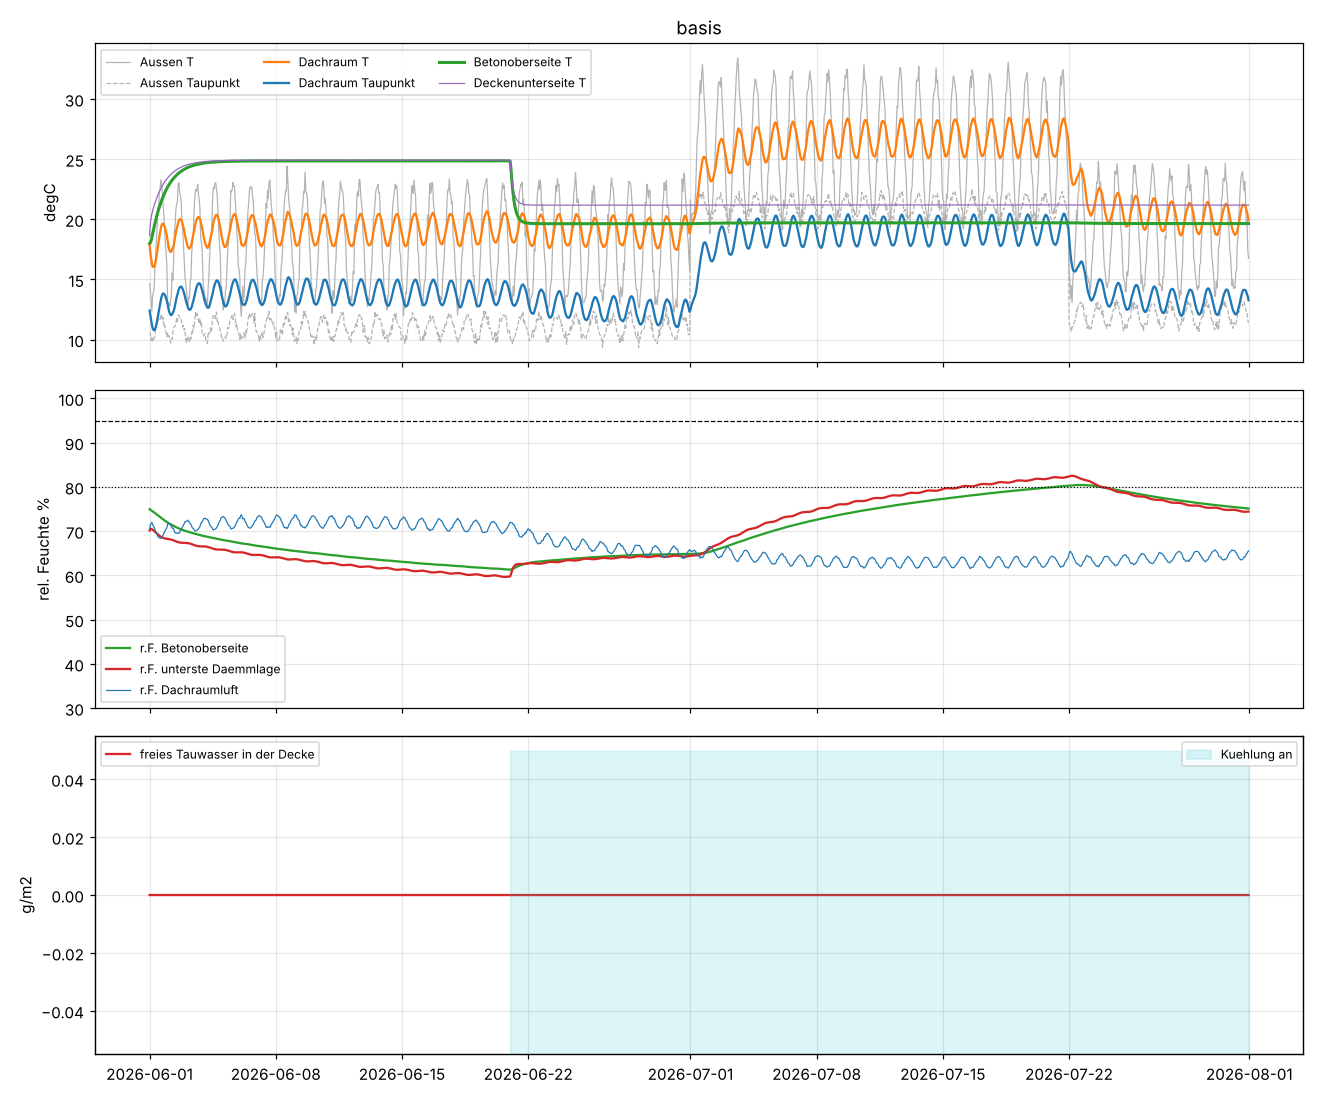
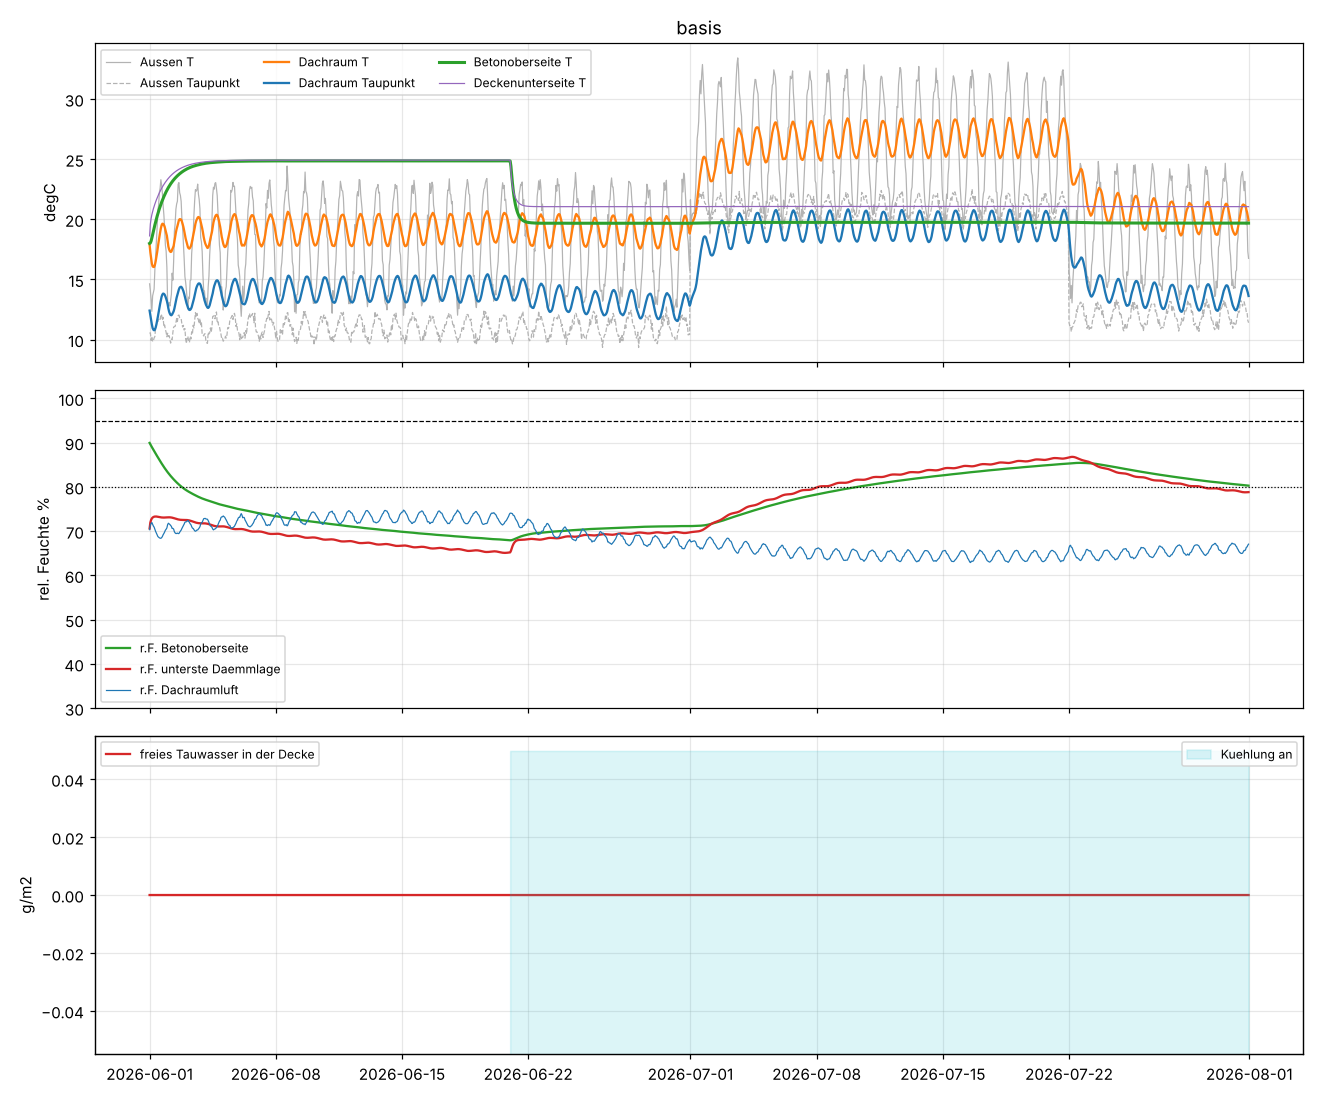
Use confirmed slab data: 20 cm concrete, pipes 8 cm from bottom, new build
Claude-Session: https://claude.ai/code/session_01JZBdeKqeZT9G5T1xVSHB6R

diff --git a/tools/attic-sim/README.md b/tools/attic-sim/README.md
@@ -71,38 +71,50 @@ Die Ergebnisse landen in `results/`: Zeitverläufe als PNG und CSV sowie
 
 ## Ergebnisse für den bestätigten Aufbau
 
-Bestätigt: keine Folie auf dem Beton, 30 cm geschüttete Zellulose, keine
-Raumentfeuchtung, Grundfläche 100 m², Dachneigung ca. 10°. Alle übrigen Werte
-sind weiterhin Annahmen. Die Zahlen sind deshalb **Größenordnungen**.
+Bestätigt sind:
 
-Gerechnet wurde mit künstlichem Wetter: 30 Tage zum Einschwingen, dann eine
-schwüle Hitzeperiode (Tag 26 ± 6 °C) mit dem Außentaupunkt aus der Tabelle,
-danach Abkühlung. Ausgewertet wurde ab Tag 30.
+- Neubau in 8051 Thal bei Graz
+- 20 cm Stahlbeton, Rohrlage 8 cm von unten
+- keine Folie auf dem Beton
+- 30 cm geschüttete Zellulose
+- keine Raumentfeuchtung
+- 100 m² Grundfläche, ca. 10° Dachneigung
 
-| Fall | Taupunkt außen | Kühlung läuft | max. r.F. Betonoberseite | max. r.F. unterste Zellulose | max. Holzfeuchte-Äquivalent Zellulose | freies Tauwasser |
-|---|---|---|---|---|---|---|
-| Basis (Wasser 19,5 °C, Beton 75 % Startfeuchte) | 19 °C, 14 Tage | 575 h | 74 % | 75 % | 11 M-% | 0 |
-| Hitzeperiode verschärft | 21 °C, 21 Tage | 514 h | 76 % | 78 % | 12 M-% | 0 |
-| + kalte Decke (Wasser 18,5 °C, guter Rohrübergang) | 21 °C, 21 Tage | 397 h | 78 % | 80 % | 13 M-% | 0 |
-| + Beton noch baufeucht (90 % Startfeuchte) | 21 °C, 21 Tage | 395 h | 83 % | 84 % | 15 M-% | 0 |
-| kalte Decke, Taupunktwächter schaltet **nie** ab | 21 °C, 21 Tage | 744 h | 80 % | 83 % | 14 M-% | 0 |
+Alles Übrige sind weiterhin Annahmen, die Zahlen daher **Größenordnungen**.
+
+Gerechnet wurde mit künstlichem Wetter, **nicht** mit Grazer Messdaten:
+30 Tage zum Einschwingen, dann eine schwüle Hitzeperiode (Tag 26 ± 6 °C),
+danach Abkühlung. Ausgewertet wurde ab Tag 30. Die Startfeuchte des Betons
+ist über den ganzen Querschnitt gleich angenommen, denn wann die Decke
+betoniert wurde, ist unbekannt.
+
+Abkürzungen in der Tabelle: Td = Außentaupunkt, r.F. = relative Luftfeuchte,
+M-% = Wassergehalt in Masseprozent.
+
+| Fall | Kühlung an | max. r.F. Betonoberseite | max. r.F. unterste Zellulose (Stunden ≥ 80 %) | max. Wassergehalt Zellulose | freies Tauwasser |
+|---|---|---|---|---|---|
+| Basis: Td 19 °C 14 Tage, Beton 90 % | 575 h | 79 % | 80 % (0 h) | 13 M-% | 0 |
+| Td 21 °C 21 Tage | 507 h | 81 % | 82 % (153 h) | 14 M-% | 0 |
+| + kältere Decke (Wasser 18,5 °C, guter Rohrübergang) | 387 h | 83 % | 84 % (299 h) | 15 M-% | 0 |
+| + Beton sehr nass (97 %) | 389 h | 86 % | 87 % (561 h) | 16 M-% | 0 |
+| kältere Decke, Taupunktwächter schaltet **nie** ab | 744 h | 85 % | 87 % (511 h) | 16 M-% | 0 |
+| Vergleich: Beton bereits trocken (75 %), Td 21 °C | 508 h | 76 % | 77 % (0 h) | 12 M-% | 0 |
 
 Was sich daraus ablesen lässt, unter Vorbehalt der Annahmen:
 
-1. In keinem dieser Fälle entsteht **freies Tauwasser**. Der Beton und die
-   Zellulose selbst nehmen die Feuchte auf, die aus dem Dachraum nach unten
-   wandert. Beide puffern.
-2. In den ungünstigen Fällen liegt die **unterste Zelluloselage** über einige
-   hundert Stunden bei **über 80 % r.F.**. Zellulose ist organisch. Ob die
-   Schutzsalze im Produkt bei dieser Feuchte und Dauer Schimmel sicher
-   verhindern, kann das Modell nicht beurteilen. Bitte im Datenblatt bzw. beim
+1. **Kein freies Tauwasser** in allen Fällen. Beton und Zellulose nehmen die
+   Feuchte auf und puffern sie.
+2. Bei diesem Neubau trägt die **Baufeuchte des Betons** offenbar ähnlich viel
+   oder mehr zur Feuchte an der Unterseite der Zellulose bei als die schwüle
+   Dachraumluft. Vergleiche dazu die letzte Zeile: Mit bereits trockenem Beton
+   gibt es keine Stunden über 80 %. Die Kühlung macht den Beton kälter und
+   verschärft das zusätzlich.
+3. Über 80 % r.F. über einige hundert Stunden ist für die organische Zellulose
+   ein Hinweis auf mögliches Schimmelrisiko. Ob tatsächlich etwas wächst,
+   berechnet das Modell nicht. Das hängt auch vom Produkt ab, bitte beim
    Hersteller nachfragen.
-3. Der **Taupunktwächter im Raum** schaltet die Kühlung an schwülen Tagen oft
-   ab, weil die Raumluft nicht entfeuchtet wird. Das schützt indirekt auch die
-   Deckenoberseite. Wie stark, hängt von seiner Schaltschwelle ab. Die ist
-   noch unbekannt, angenommen sind 1 K Abstand zur Deckenoberfläche.
-4. Am stärksten hängt das Ergebnis von der **Temperatur der Betonoberseite**
-   und davon ab, **wie feucht der Beton noch ist** (Neubau?).
+4. Die Simulation deckt nur ca. zwei Monate ab. Wie schnell der Beton über
+   mehrere Jahre austrocknet, ist damit nicht abgebildet.
 
 ## Empfohlene Messungen (z. B. mit ESPHome)
 
